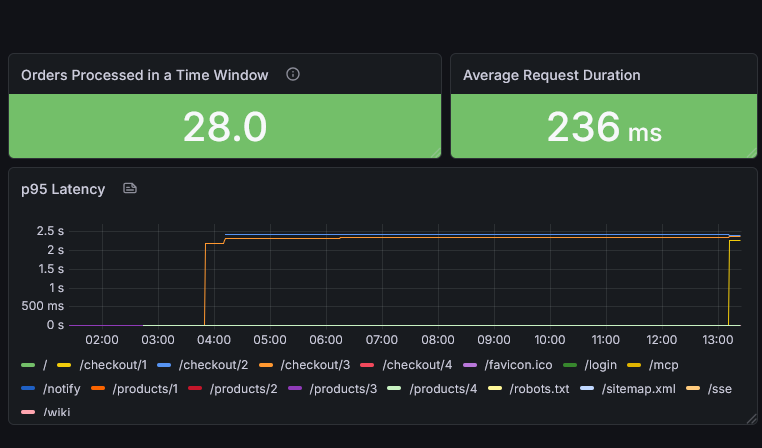
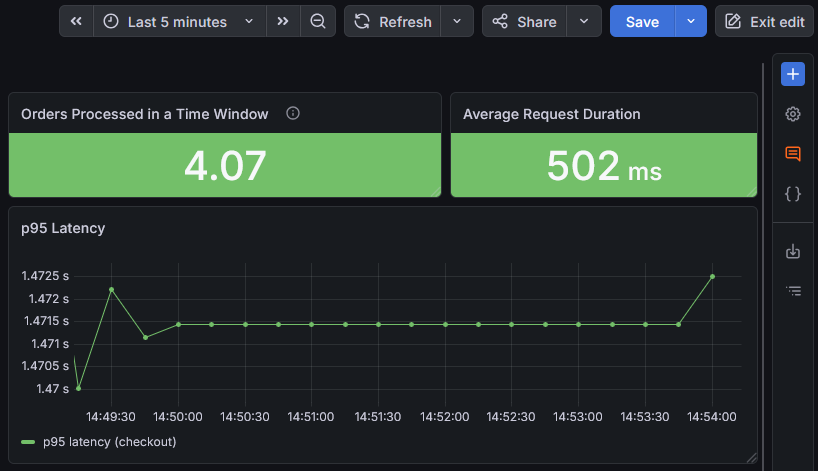
fix: remove error simulation - incident 2 resolved

diff --git a/checkout/app.py b/checkout/app.py
@@ -98,8 +98,6 @@ NOTIFICATIONS_URL = "http://notifications:5003"
 @app.get("/checkout/<product_id>")
 def checkout(product_id):
     try:
-        if random.random() < 0.8:
-            time.sleep(1.2)
 
         span = get_current_span()
         trace_id = format(span.get_span_context().trace_id, "032x")

diff --git a/docs/postmortems/incident-1-latency.md b/docs/postmortems/incident-1-latency.md
@@ -1,0 +1,85 @@
+# Postmortem: Checkout Latency Spike
+
+**Date:** 2026-06-19
+**Service:** checkout
+**Severity:** Warning
+**Status:** Resolved
+
+## Summary
+
+Checkout response times went above our 300ms target, peaking at about 1.48
+seconds. This was caused by a delay I added on purpose to test whether the
+alerting and monitoring setup would actually catch a slowdown.
+
+## Impact
+
+- Most checkout requests took noticeably longer to respond
+- The latency target (300ms) was breached for the length of the test
+- No requests failed — this was about speed, not errors
+
+## Timeline
+
+| Time | Event |
+|---|---|
+| T+0:00 | Delay added to checkout and deployed |
+| T+0:00 | Sent test traffic to checkout |
+| T+0:30 | Dashboard showed latency climbing past 300ms |
+| T+2:00 | Latency alert switched from "pending" to "firing" |
+| T+3:00 | Checked Jaeger traces to find where the delay was happening |
+| T+4:00 | Checked logs in Loki using the trace ID |
+| T+5:00 | Removed the delay and deployed the fix |
+| T+6:00 | Latency back to normal, alert cleared |
+
+## Detection
+
+The dashboard showed latency rising clearly above the 300ms line. After the
+condition held steady for 2 minutes, the alert moved from "pending" to
+"firing" confirming this was a real, sustained slowdown.
+
+**Note:** Early on, the dashboard showed a higher latency number than the
+slowest individual request I could find in Jaeger. I looked into this and
+found the issue was with how Prometheus groups response times into ranges
+(called buckets) before calculating the 95th percentile. The default ranges
+were too wide for the kind of delay I was testing, which threw off the
+estimate. I fixed this by setting narrower, more specific ranges, and the
+numbers lined up correctly afterward. Details and the fix are in the
+Prevention section below.
+
+## Diagnosis
+
+Looking at the slowest traces in Jaeger, I could see the delay was happening
+inside checkout itself — not in catalogue or notifications, which both
+responded quickly. This made it clear right away that the problem was in
+checkout's own code, not something downstream.
+
+Checking the logs for that same request in Loki confirmed checkout received
+and processed the request normally, with no errors, consistent with this
+being a deliberate delay rather than something breaking.
+
+## Root Cause
+
+A delay was deliberately added to the checkout code to confirm that the
+monitoring and alerting setup would correctly detect and report a real
+slowdown.
+
+## Resolution
+
+Removed the delay and redeployed through the CI/CD pipeline. Latency
+returned to normal within one deployment, and the alert cleared on its own
+once the condition was gone.
+
+## Prevention / Follow-up
+
+- Being able to see exactly where the delay was happening (in checkout, not
+  catalogue or notifications) made this fast to diagnose, confirms tracing
+  is genuinely useful for any real slowdown in the future, not just this
+  test.
+- Found and fixed a separate issue along the way: the dashboard's latency
+  number didn't match Jaeger's actual recorded times. This came down to
+  Prometheus's default response-time ranges being too wide for the delay I
+  was testing, which threw off the calculation. I set more precise ranges
+  matching the values I actually care about, and the numbers now match much
+  more closely.
+- Alert notifications (e.g. sending to email or Teams) aren't set up yet, 
+  for now I checked alerts manually in the dashboard. This is a planned next
+  step.

diff --git a/docs/postmortems/incident-2-errors.md b/docs/postmortems/incident-2-errors.md
@@ -1,0 +1,87 @@
+# Postmortem: Checkout Server Error Rate Spike
+
+**Date:** 2026-06-19
+**Service:** checkout
+**Severity:** Critical
+**Status:** Resolved
+
+## Summary
+
+Checkout started returning server errors (HTTP 500) on about 25% of
+requests, well above our 1% target. This was caused by a failure I added on
+purpose to test whether the system would correctly detect and help diagnose
+a real error spike.
+
+## Impact
+
+- Around 25% of checkout requests failed outright
+- The error rate target (under 1%) was breached for the length of the test
+- Failed requests stopped immediately, before reaching catalogue or
+  notifications
+
+## Timeline
+
+| Time | Event |
+|---|---|
+| T+0:00 | Error simulation added to checkout and deployed |
+| T+0:00 | Sent test traffic to checkout |
+| T+0:30 | Dashboard showed error rate spiking to ~25% |
+| T+2:00 | Error rate alert switched from "pending" to "firing" |
+| T+3:00 | Checked Jaeger for failed traces |
+| T+4:00 | Checked logs in Loki using the trace ID of a failed request |
+| T+5:00 | Removed the error simulation and deployed the fix |
+| T+6:00 | Error rate back to normal, alert cleared |
+
+## Detection
+
+The dashboard's error rate panel showed a clear spike, well above the 1%
+target. After the condition held for 2 minutes, the alert moved from
+"pending" to "firing", confirming this was a sustained issue.
+
+## Diagnosis
+
+I filtered Jaeger to show only failed requests. Unlike a slow request, these
+traces only had a single step in them, no calls to catalogue or
+notifications at all. That told me straight away that checkout was failing
+right at the start, before it even tried to reach either of the other
+services. I didn't need to check catalogue or notifications at all to rule
+them out. The trace shape alone showed that.
+
+Checking the logs for one of the failed requests in Loki showed:
+
+```
+Processing checkout | trace_id=d077c3329498a2c36c3bf91a78aa9399| product_id=4
+Simulated server error | trace_id=d077c3329498a2c36c3bf91a78aa9399 | product_id=4
+```
+
+There was no "product lookup" or "notification sent" line for this request,
+which confirmed it never got that far. The log also gave me the actual
+error message, which the trace alone doesn't show, and that's the extra detail
+logs add on top of what tracing tells you.
+
+## Root Cause
+
+A failure was deliberately added to checkout's code to confirm that error
+detection, tracing, and logging would correctly catch and help explain a
+real error spike.
+
+## Resolution
+
+Removed the simulated failure and redeployed through the CI/CD pipeline.
+Error rate returned to normal within one deployment, and the alert cleared
+on its own.
+
+## Prevention / Follow-up
+
+- A failed request with no downstream calls was easy to spot in Jaeger and
+  immediately pointed to checkout as the source. Useful pattern to
+  remember for any real error spike going forward.
+- Logs gave the one thing tracing couldn't, the actual error message, 
+  which confirms why checking logs alongside traces matters, especially
+  for failures rather than slowdowns.
+- Alert notifications (e.g. sending to email or Teams) aren't set up yet, 
+  for now I checked alerts manually in the dashboard. This is a planned next
+  step, same as noted in the latency incident.
+- Confirmed that normal client errors (like an invalid product ID) don't
+  trigger this alert, only real server failures do, which is working as
+  intended.
